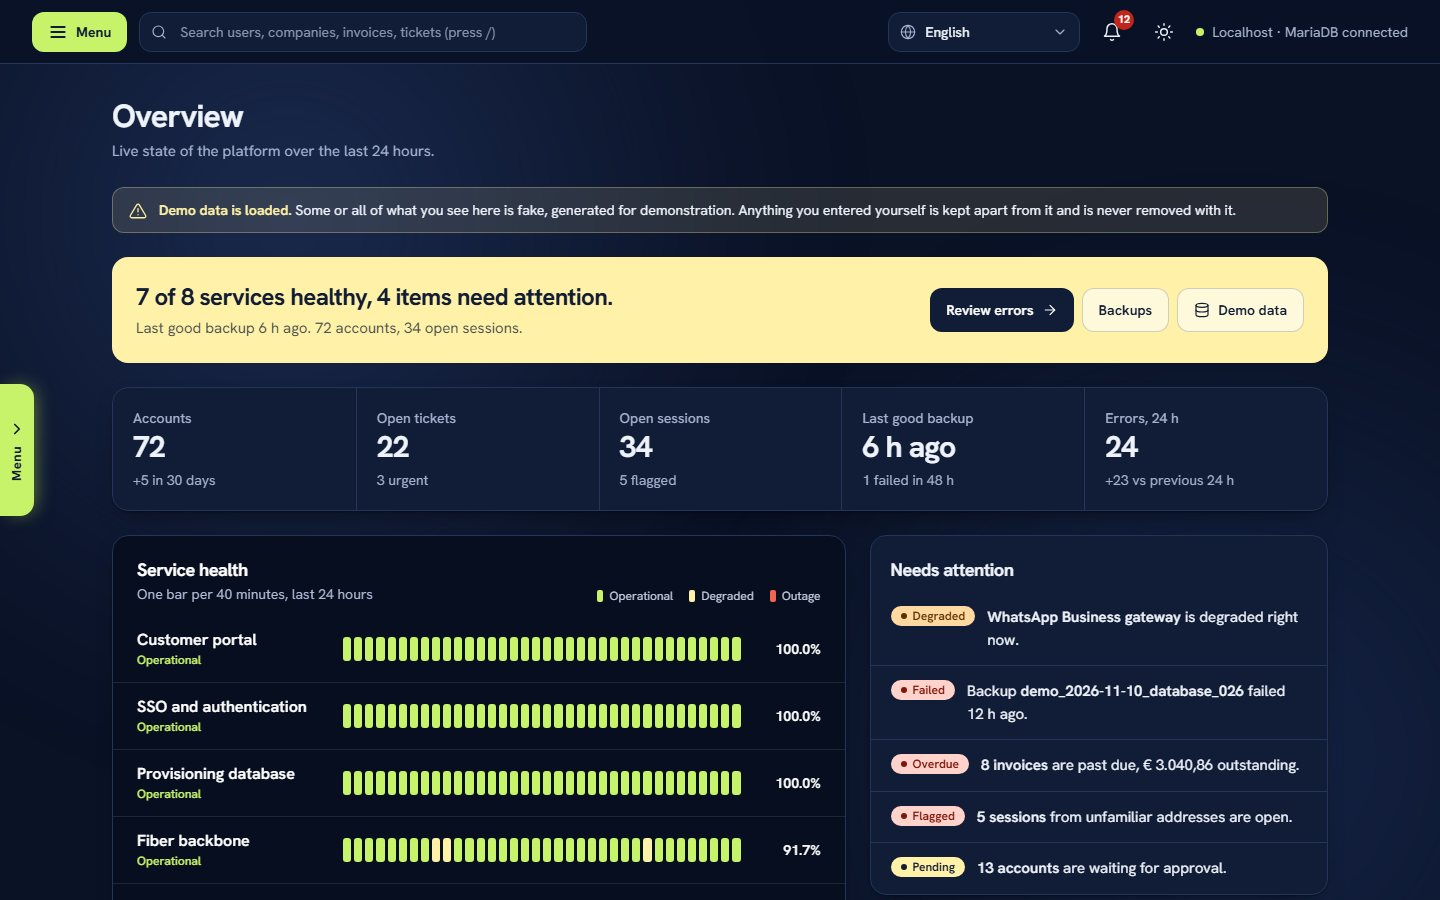
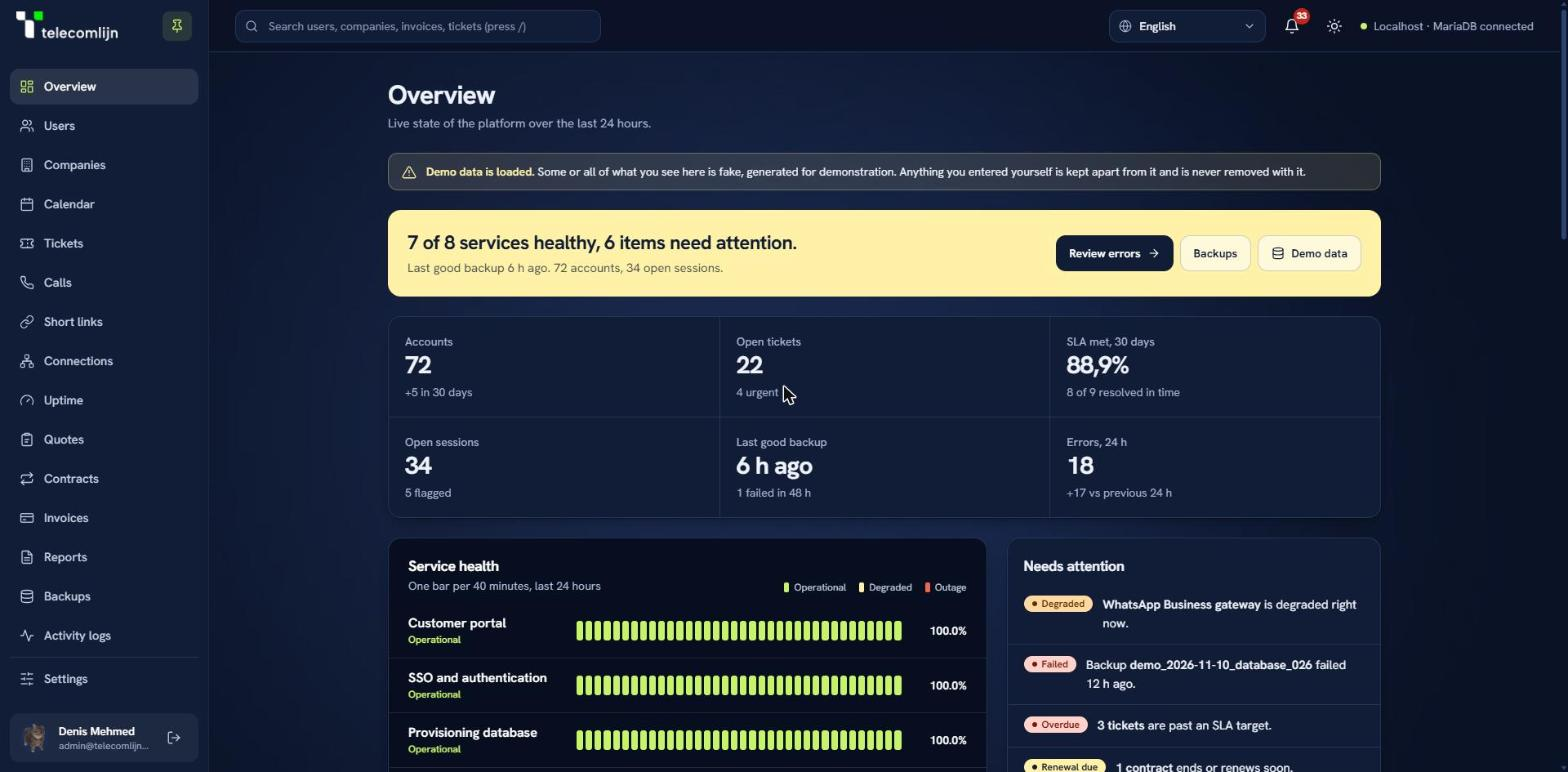
README: screenshots of quotes, contracts, the SLA column and the ticket SLA box; new Overview images
The SLA filter on the ticket list now sits before the Apply button.

diff --git a/tickets/tickets.php b/tickets/tickets.php
@@ -69,9 +69,9 @@ $field = 'h-11 rounded-xl border border-line bg-panel px-3 text-sm focus:border-
     <select id="assignee" name="assignee" class="<?= $field ?>"><option value="">Anyone</option><option value="none" <?= $assignee === 'none' ? 'selected' : '' ?>>Unassigned</option><?php foreach ($assignees as $aid => $an): ?><option value="<?= (int) $aid ?>" <?= $assignee === (string) $aid ? 'selected' : '' ?>><?= e($an) ?></option><?php endforeach; ?></select>
     <label class="sr-only" for="company">Company</label>
     <select id="company" name="company" class="<?= $field ?> max-w-[14rem]"><option value="">All companies</option><?php foreach ($companyList as $cid => $cn): ?><option value="<?= (int) $cid ?>" <?= $company === (int) $cid ? 'selected' : '' ?>><?= e($cn) ?></option><?php endforeach; ?></select>
-    <button class="h-11 rounded-xl bg-lime px-5 text-sm font-bold text-navy hover:brightness-95">Apply</button>
     <?php if ($slaOn): ?><label class="sr-only" for="sla">SLA</label>
     <select id="sla" name="sla" class="<?= $field ?>"><option value="">Any SLA state</option><?php foreach (['breached' => 'Past a target (' . (int) $slaCounts['breached'] . ')', 'risk' => 'About to breach (' . (int) $slaCounts['risk'] . ')', 'escalated' => 'Escalated'] as $k => $l): ?><option value="<?= $k ?>" <?= $slaF === $k ? 'selected' : '' ?>><?= e($l) ?></option><?php endforeach; ?></select><?php endif; ?>
+    <button class="h-11 rounded-xl bg-lime px-5 text-sm font-bold text-navy hover:brightness-95">Apply</button>
     <?php if ($q !== '' || $status !== '' || $priority !== '' || $assignee !== '' || $company > 0 || $slaF !== ''): ?><a href="tickets/tickets.php" class="text-sm font-semibold underline decoration-lime decoration-2 underline-offset-4">Clear filters</a><?php endif; ?>
     <div class="ml-auto flex flex-wrap gap-2"><?= csv_buttons('tickets') ?><a href="tickets/ticket_new.php" class="pressable inline-flex h-11 items-center gap-2 rounded-xl border border-line px-4 text-sm font-semibold hover:bg-lime hover:text-navy"><?= icon('plus', 'h-4 w-4') ?>New ticket</a></div>
   </form>

diff --git a/README.md b/README.md
@@ -203,15 +203,23 @@ Invite colleagues by email, set roles and permissions, turn on **two-step sign-i
 <table>
 <tr>
 <td width="50%"><img src="docs/screenshots/company-dark.jpg" alt="A company page with its details, people, tickets and appointments"><br><sub><b>A company</b>: the core page. Each panel on it belongs to a module, and is only there when that module is on.</sub></td>
-<td width="50%"><img src="docs/screenshots/tickets-dark.jpg" alt="The ticket list with filters, priorities and statuses"><br><sub><b>Tickets module</b>: filter by status, priority, owner and company.</sub></td>
+<td width="50%"><img src="docs/screenshots/tickets-dark.jpg" alt="The ticket list with filters, priorities, statuses and an SLA countdown"><br><sub><b>Tickets module</b>: filter by status, priority, owner, company and SLA state, with a countdown per ticket.</sub></td>
 </tr>
 <tr>
 <td width="50%"><img src="docs/screenshots/calendar-dark.jpg" alt="The calendar month grid"><br><sub><b>Calendar module</b>: a month grid and an agenda, with an .ics download.</sub></td>
 <td width="50%"><img src="docs/screenshots/invoices-dark.jpg" alt="The invoice list with open, due and overdue amounts"><br><sub><b>Invoices module</b>: what is open, due soon and overdue at a glance.</sub></td>
 </tr>
 <tr>
+<td width="50%"><img src="docs/screenshots/ticket-sla-dark.jpg" alt="A ticket past its solution target, escalated, with the SLA box and the option to email the reply"><br><sub><b>SLA and email</b>: both targets on the ticket, an escalation note in the thread, and a tick to email the reply to the customer.</sub></td>
+<td width="50%"><img src="docs/screenshots/quotes-dark.jpg" alt="The quote list with open, won and lost amounts and the win rate"><br><sub><b>Quotes module</b>: open, won and lost at a glance, and the win rate.</sub></td>
+</tr>
+<tr>
+<td width="50%"><img src="docs/screenshots/contracts-dark.jpg" alt="The contract list with revenue per month, renewal alerts and next invoice dates"><br><sub><b>Contracts module</b>: what every company pays a month, and which contracts are about to end or renew.</sub></td>
 <td width="50%"><img src="docs/screenshots/ticket-light.jpg" alt="A ticket in light mode"><br><sub><b>Light mode</b>: follows your system, switch any time.</sub></td>
+</tr>
+<tr>
 <td width="50%" align="center"><img src="docs/screenshots/phone-tickets.jpg" alt="The ticket list on a phone" width="200"> <img src="docs/screenshots/phone-overview.jpg" alt="The Overview on a phone" width="200"><br><sub><b>On a phone</b>: tables become readable cards.</sub></td>
+<td width="50%"></td>
 </tr>
 </table>
 
